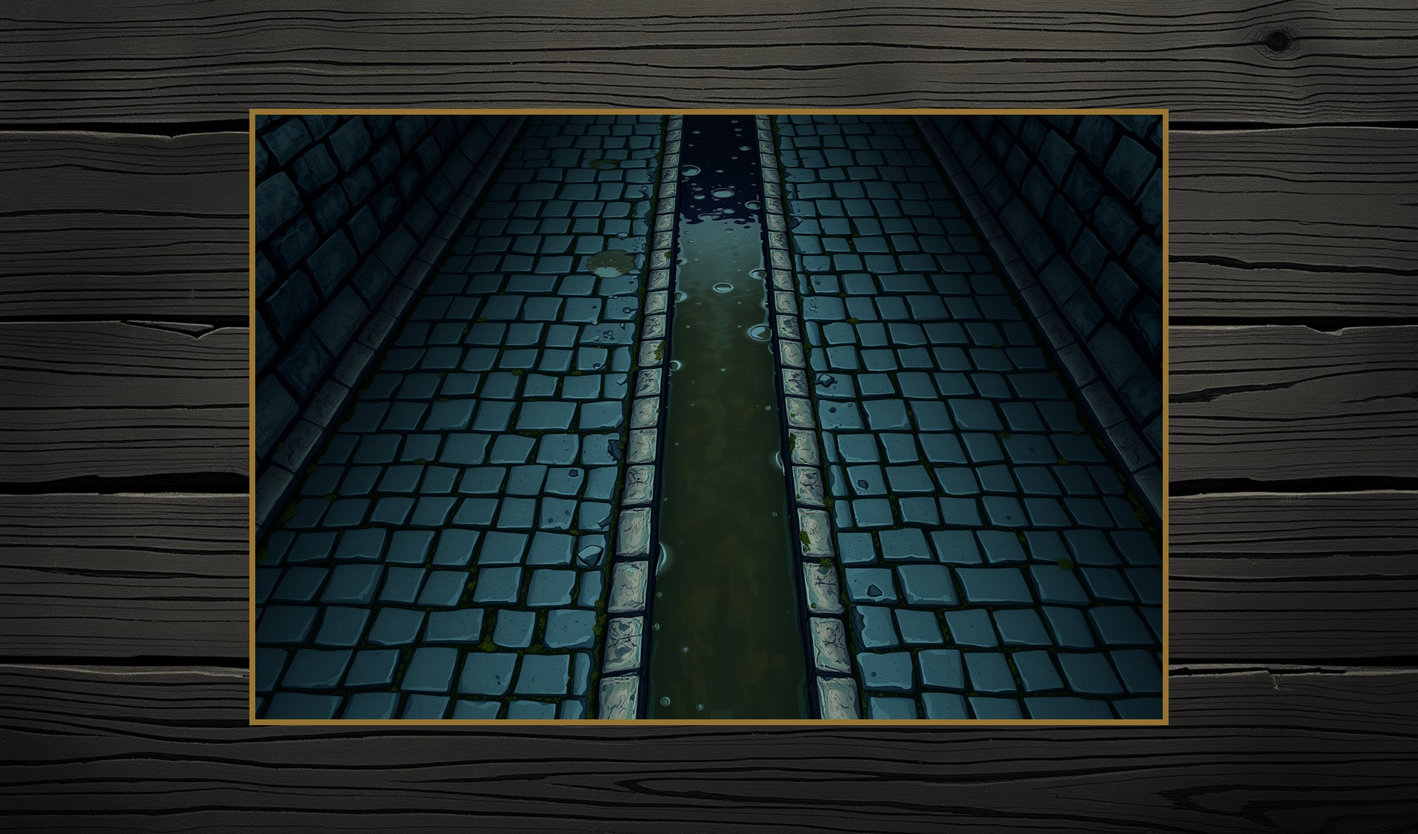
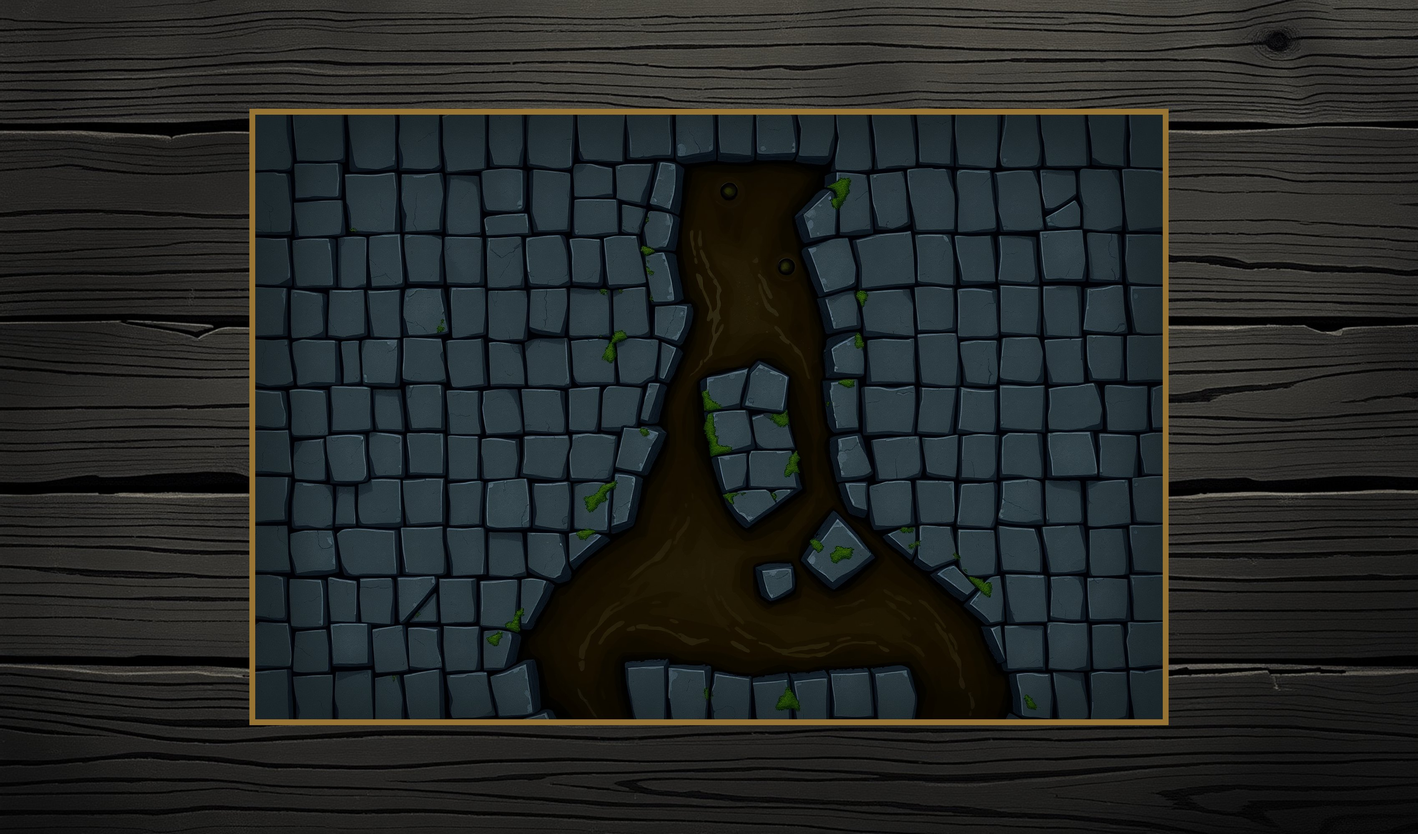
GM portrait, per-model health bar heights, bases on corpses and bigger giant rings, black Baron's Bones, bigger HP shields, GM panel rows top-down on a dark board, dying giantess back to the giant model and moved, top-down curvy sewer map with bridges re-placed

Changed region(s): [[0.1559, 0.124, 0.8418, 0.868]]

diff --git a/build.py b/build.py
@@ -207,8 +207,7 @@ def build_images():
     for i in range(len(ITEMS)):
         items.paste(make_item_card(i), ((i % 4) * 500, (i // 4) * 700))
     items.save(OUT / "items.jpg", quality=90)
-    Image.open(RAW / "screen_art.png").convert("RGB").crop((512, 0, 1024, 768)).resize((256, 384)).crop((0, 64, 256, 320)) \
-        .save(OUT / "portrait_gm.jpg", quality=90)
+    Image.open(RAW / "portrait_gm.png").convert("RGB").resize((256, 256)).save(OUT / "portrait_gm.jpg", quality=90)
     art = Image.open(upscaled("screen_art")).convert("RGB")
     pw = art.width // 3
     for i, (title, body, fs) in enumerate(screen_panels()):
@@ -273,6 +272,11 @@ def tile(url, transform, **kw):
 
 # Everything on the table is positioned by grid square; game.lua measures the table at load and turns
 # "grid" into a world transform (TTS table sizes aren't documented, guessing them made things fall off).
+# per RPG kit model: health bar height above the base (object-UI units) and base ring size, read off screenshots
+UI_HEIGHT = {"rpg_CYCLOP": 690, "rpg_GHOUL": 230, "rpg_KOBOLD": 250, "rpg_RAT": 150, "rpg_WOLF": 170}
+RING_SIZE = {"rpg_CYCLOP": 1.35}
+
+
 def npc(key, x, z, n, scene, hp=None):
     t = NPCS[key]
     hp = hp or t["hp"]
@@ -280,15 +284,17 @@ def npc(key, x, z, n, scene, hp=None):
     ry = (270.0 if x > 0 else 90.0) + (180.0 if t.get("flip") else 0.0)   # flip: model faces backwards
     o = obj(t["fig"], tf(ry=ry), GUID=guid(scene, key, n), Nickname=t["name"], Tags=["scene"], GMNotes=t["notes"],
             grid={"x": x, "z": z, "k": "fig", "s": [t.get("scale", 1)] * 3})
+    o["grid"]["ring"] = [0.85, 0.65, 0.15] if t.get("notable") else [0.12, 0.1, 0.09]   # base: gold notable, else dark
+    o["grid"]["ring_s"] = RING_SIZE.get(t["fig"], 1.0)
     if t.get("dead"):
         o["RPGdead"] = True
     if t.get("tint"):
         o["ColorDiffuse"] = dict(zip("rgb", t["tint"]))
     if attacks or not t.get("dead"):   # corpses and carcasses are props, everyone else gets a healthbar
-        o["grid"]["ring"] = [0.85, 0.65, 0.15] if t.get("notable") else [0.12, 0.1, 0.09]   # base: gold notable, else dark
         o["LuaScript"] = (ROOT / "npc.lua").read_text()
         o["LuaScriptState"] = json.dumps({"name": t["name"], "hp": t.get("start_hp", hp), "max": hp,
-                                          "def": t["defense"], "down": bool(t.get("dead")), "attacks": attacks})
+                                          "def": t["defense"], "down": bool(t.get("dead")), "attacks": attacks,
+                                          "ui": UI_HEIGHT.get(t["fig"], 430)})
     return o
 
 
@@ -318,7 +324,7 @@ def scene_data(s, base, textures):
         spawns.append(o)
     if s["key"] == "den":   # Baron's Bones dice on the gambling table
         spawns += [obj("Die_6_Rounded", tf(ry=30.0 * i), GUID=guid("den", "die", i), Tags=["scene"], Nickname="Baron's Bones",
-                       ColorDiffuse={"r": 0.93, "g": 0.87, "b": 0.72},     # old bone, for the Baron's Bones
+                       ColorDiffuse={"r": 0.06, "g": 0.06, "b": 0.06},     # black, white pips: readable from across the table
                        grid={"x": -0.45 + 0.45 * i, "z": 0, "k": "fig", "s": [1.3, 1.3, 1.3], "lift": 4}) for i in range(3)]
     _, rgb, bright = SKIES[s["key"]]
     return dict(title=s["title"], spawns=spawns, heroes=[[x, z] for x, z in s["heroes"]],
@@ -366,18 +372,17 @@ TRAY = (7.2, -7.5)                  # dice tray, from X0; it also carries the GM
 # GM control panel, like the floating one: bottom left of the red mat as the GM sees it (GM looks west, so "down" is
 # +x and "left" is -z). Rows run down the mat; each entry: label, what it does, its row, and its slot in a 3-wide row.
 PANEL_Z, PANEL_X0, ROW = -3.0, 4.2, 0.52
-GM_BUTTONS = ([dict(label="The Giants of Holst", row=0, kind="title")] +
+GM_BUTTONS = ([dict(label="Game Master", row=0, kind="title")] +
               [dict(label=s["title"], scene=i + 1, row=i + 1) for i, s in enumerate(SCENES)] +
               [dict(label=t, fn=f, row=len(SCENES) + 1, slot=k) for k, (f, t) in
                enumerate((("musicScene", "Scene music"), ("musicBattle", "Battle"), ("musicStop", "Stop")))] +
               [dict(label="Reveal all enemies", fn="revealAll", row=len(SCENES) + 2),
                dict(label="REST (cards + full HP)", fn="rest", row=len(SCENES) + 3)])
 for b in GM_BUTTONS:
-    b["x"] = round(PANEL_X0 + ROW * b["row"] - TRAY[0], 2)
+    b["x"] = round(TRAY[0] - (PANEL_X0 + ROW * b["row"]), 2)   # mirrored: rows came out bottom-to-top in TTS
     b["z"] = round(PANEL_Z + (b["slot"] - 1) * 1.1 - TRAY[1] if "slot" in b else PANEL_Z - TRAY[1], 2)
     b["w"] = 1.0 if "slot" in b else 3.2
-GM_PANEL = dict(x=round(PANEL_X0 + ROW * (len(SCENES) + 3) / 2 - TRAY[0], 2), z=round(PANEL_Z - TRAY[1], 2),
-                w=3.6, h=round(ROW * (len(SCENES) + 4) + 0.2, 2))
+
 
 
 def gm_objects(base):
@@ -394,6 +399,8 @@ def gm_objects(base):
                  grid={"x": X0 + 1.0, "z": 0, "k": "model", "lift": 0}),
            model("dice_tray", GUID=guid("gm", "tray"), Nickname="Dice tray", Locked=True, convex=False,
                  Tags=["gm", "gmconsole"], grid={"x": X0 + TRAY[0], "z": TRAY[1], "k": "model", "lift": 0}),
+           model("gm_board", GUID=guid("gm", "board"), Nickname="GM controls", Locked=True, **gm,
+                 grid={"x": X0 + PANEL_X0 + ROW * (len(SCENES) + 3) / 2, "z": PANEL_Z, "k": "model", "lift": 0}),
            obj("Custom_PDF", tf(ry=90.0), GUID=guid("gm", "book"), Nickname="GM guide", **gm,
                CustomPDF={"PDFUrl": f"{base}art/out/gm_guide.pdf", "PDFPassword": "", "PDFPage": 0, "PDFPageOffset": 0},
                grid={"x": X0 + 2.6, "z": -6.9, "k": "tile", "s": [1.8, 1, 1.8]})]
@@ -505,7 +512,7 @@ def main(base):
     notebook = [dict(title="Rules", body=RULES, color="Grey")] + \
                [dict(title=s["title"], body=s["notes"], color="Black") for s in SCENES]
     data = dict(colors=[h["color"] for h in HEROES], heroes=heroes, kits=kits, notebook=notebook, layout=LAYOUT,
-                gm=gm_objects(base), gm_buttons=GM_BUTTONS, gm_panel=GM_PANEL,
+                gm=gm_objects(base), gm_buttons=GM_BUTTONS,
                 ring=mesh(base, "base_ring", Convex=False),
                 scenes=[scene_data(s, base, textures) for s in SCENES],
                 battle=dict(url=f"{base}music/{BATTLE_MUSIC}", title="Battle!"))

diff --git a/content.py b/content.py
@@ -11,9 +11,9 @@ GROUND_STYLE = ("seen from directly above, flat top-down game ground texture, ha
 GROUNDS = {
     "outskirts": "seamless tileable texture of worn grey medieval cobblestones filling the whole image, mud patches, "
                  "puddles, scattered straw and splinters",
-    "sewer": "wet dark grey flagstone floor of a huge underground sewer, a single straight channel of dark murky brown-green "
-             "water running from the top edge to the bottom edge through the middle, worn stone kerbs along the channel, "
-             "puddles and moss in the cracks",
+    "sewer": "a flat battle map tile: wet dark grey flagstones fill the whole image edge to edge, and a channel of dark murky "
+             "brown-green water winds from the top edge down to the bottom edge through the middle, curving and splitting "
+             "around a few islands of stone, bordered by flat stone kerbs, puddles and moss in the cracks",
     "den": "seamless tileable texture of large worn dark grey flagstones evenly filling the whole image, dust and cracks",
     "passage": "dark dungeon floor of cracked flagstones, puddles, patches of moss",
     "cart": "a straight horizontal muddy dirt road crossing the middle of the image from left edge to right edge, "
@@ -177,7 +177,7 @@ NPCS = {
     ], notes="Leader of the ambush. Wicker shield: ranged -5."),
     "dead_thug": dict(name="Trampled guildsman", fig="rpg_THIEF", hp=1, defense=1, attacks=[],
                       notes="Thieves' guild. Search: 3 gold, a guild token, cart keys.", dead=True),
-    "dying_giant": dict(name="Hrothga, dying giantess", fig="rpg_RANGER", scale=1.9, tint=(0.85, 0.72, 0.6), notable=True,
+    "dying_giant": dict(name="Hrothga, dying giantess", fig="rpg_CYCLOP", scale=0.85, notable=True,
                         hp=6, defense=8, attacks=[
         ("Feeble swipe", 3, "1d6", "only if attacked"),
     ], notes="Speaks only Giantish (Tongues / Speak with the Dying / Street Dravic badly). See scene notes."),
@@ -309,11 +309,11 @@ corner with thralls on chains, wicker shields raised. THIS FIGHT IS MEANT TO BE 
                + wall_line("wall", 10.4, -6, 10.4, 4.8, spacing=1.8)
                + [("tent", -8, 3.6, 30), ("tent", -8.3, -3.4, 150), ("tent", -5.8, 4.8, 10),
                   ("bed", -6.2, 2.4, 90), ("bed", -7, -1.2, 0), ("bed", -5.4, -4.6, 60), ("bed", -9, 1.3, 20),
-                  ("torch", -6, 0.6), ("torch", -3.8, -5.2), ("torch", 8.6, -3.4), ("torch", 4.4, 4.6),
-                  ("bridge", 0, 0.6), ("bridge", 0.1, -4.4, 5),
-                  ("crates", 8.6, 3.8), ("barrel", 7.6, 4.6), ("barrel", 7.9, 4.1), ("sack", 3.4, 0.2, 30), ("sack", 3.8, -0.4),
+                  ("torch", -6, 0.6), ("torch", -6, -5.6), ("torch", 8.6, -3.4), ("torch", 4.4, 4.6),
+                  ("bridge", 0.6, 4.2), ("bridge", -1.4, -0.2, 5), ("bridge", 2.6, -1.0, -5),
+                  ("crates", 8.6, 3.8), ("barrel", 7.6, 4.6), ("barrel", 7.9, 4.1), ("sack", 4.6, 0.6, 30), ("sack", 5.0, -0.2),
                   ("crate", 5.6, 1.2, 15), ("keg", -9.2, -0.4, 90), ("rubble", 3.2, 5.2, 0, 0.7)],
-         npcs=[("refugee", -6.3, 3.2), ("refugee", -6.6, -1.6), ("refugee", -3.6, -3), ("refugee", 4.3, -4.5),
+         npcs=[("refugee", -6.3, 3.2), ("refugee", -6.6, -1.6), ("refugee", -5, -3.2), ("refugee", 7.5, -4.6),
                ("noble", 4, -1.5), ("hunter", 8, -0.5), ("hunter", 7.4, -2.6), ("carcass", 5.6, -2.9), ("carcass", 6.5, -1.2)],
          notes="""Read aloud: "You drop into stink and darkness. Then - firelight. Hundreds of people live down here
 in rags and smoke. Holst didn't empty. It went underground."
@@ -434,7 +434,7 @@ After: tracks and blood lead to a cave in the hillside."""),
                + [("rubble", -1.6, 5.6, 0, 0.8), ("rubble", 1.8, 5.6, 180, 0.8), ("rock_b", 2.8, -2.4, 30, 1.4),
                   ("rock_d", 2.8, -0.4, 80, 1.1), ("campfire_cold", -1.3, 0.8), ("rubble", 4, 2.5, 0, 0.6), ("torch", -3.5, -1),
                   ("wicker_shield", 4.4, -3.2, 130, 0.9), ("giant_club", 7.6, -3.0, 75, 0.55)],
-         npcs=[("dead_human", -3, 2), ("dead_human", -2, -2), ("dead_human", 0.5, -0.5), ("dying_giant", 6, -4.8),
+         npcs=[("dead_human", -3, 2), ("dead_human", -2, -2), ("dead_human", 0.5, -0.5), ("dying_giant", 1.4, -2.6),
                ("princess", 0, 6)],
          notes="""Read aloud: "The cave stinks of blood and smoke. The guild made their last stand here -
 three bodies around a burnt-out fire. In the corner, leaning against the rock, a giantess. Still breathing."

diff --git a/test_lua.py b/test_lua.py
@@ -243,15 +243,15 @@ assert len(desk) == len(c.DATA.gm) - 2 and all(o.invisible for o in desk), [o.da
 assert all(o.data.Transform.posX > W / 2 for o in desk), [(o.data.Nickname, o.data.Transform.posX) for o in desk]
 assert len(screen) == 1 and not screen[0].invisible and screen[0].data.Transform.posX > W / 2   # on the GM table
 board = list(g.getObjectsWithTag("gmconsole").values())[0]
-assert len(board.buttons) == len(c.DATA.gm_buttons) + 1   # + the panel's dark backing
-fn = board.buttons[3].click_function                 # backing, title, then scene 1
+assert len(board.buttons) == len(c.DATA.gm_buttons)
+fn = board.buttons[2].click_function                 # title, then scene 1
 g.UIattr["sceneTitle.text"] = ""
 c[fn](board, "Red")                                  # players can't press GM buttons
 assert g.UIattr["sceneTitle.text"] == ""
 c[fn](board, "Black")
 assert g.UIattr["sceneTitle.text"] == scenes[0]["title"]
 lit = [i for i in range(1, len(board.buttons) + 1) if to_py(board.buttons[i].color) == [0.85, 0.65, 0.2]]
-assert lit == [3], lit                               # only the current scene's button is lit
+assert lit == [2], lit                               # only the current scene's button is lit
 # coloured bases: every hero figure and every living NPC got a ring attached
 assert all(o.attached == 1 for col in ("Red", "Blue", "Green", "Purple") for o in g.getObjectsWithTag("fig_" + col).values())
 # HP shields: -, +, right-click = 5, clamped to 0..max, REST refills

diff --git a/forge.py b/forge.py
@@ -1006,6 +1006,16 @@ def hp_shield():
     return a.objs
 
 
+def gm_board():
+    """Dark backing board for the GM control buttons (they float just above it): 6.0 deep (x) by 3.6 wide (y),
+    with a thin gold edge."""
+    a = Asset(32)
+    a.box((6.0, 3.6, 0.03), (0, 0, 0.015), "charcoal")
+    for x, y, w, d in ((0, 1.8, 6.04, 0.04), (0, -1.8, 6.04, 0.04), (3.0, 0, 0.04, 3.6), (-3.0, 0, 0.04, 3.6)):
+        a.box((w, d, 0.035), (x, y, 0.0175), "gold")
+    return a.objs
+
+
 ASSETS = {
     "house_a": lambda: house(1, 3.0, 2.2, 2, "timber"),
     "house_b": lambda: house(2, 2.6, 2.0, 2, "mixed", roof="shingle", plaster="plaster_white", front=True),
@@ -1028,7 +1038,7 @@ ASSETS = {
     "kerb": kerb, "house_e": lambda: house(13, 2.2, 2.6, 3, "timber", front=True, roof="shingle", plaster="plaster_rose"),
     "house_f": lambda: house(14, 3.2, 2.2, 1, "stone", roof="thatch", annex=1, flowers=0.6),
     "throne_dais": throne_dais, "candelabra": candelabra, "hoard": hoard, "hoard_b": lambda: hoard(29),
-    "wall_sconce": wall_sconce, "coin": coin, "ration": ration, "gm_table": gm_table, "base_ring": base_ring, "hp_shield": hp_shield, "gm_screen": gm_screen, "dice_tray": dice_tray,
+    "wall_sconce": wall_sconce, "coin": coin, "ration": ration, "gm_table": gm_table, "gm_board": gm_board, "base_ring": base_ring, "hp_shield": hp_shield, "gm_screen": gm_screen, "dice_tray": dice_tray,
 }
 
 if __name__ == "__main__":

diff --git a/gen_art.py b/gen_art.py
@@ -22,6 +22,8 @@ def jobs():
     yield "table_wood", ("a bare dark old oak tabletop of long worn wooden planks seen from directly above, scratched and "
                          f"weathered, filling the whole frame, {STYLE}"), 1536, 1024
     yield "card_back", f"ornate symmetrical celtic knotwork pattern, gold filigree on deep crimson leather, no symbols, {STYLE}", 640, 896
+    yield "portrait_gm", ("portrait of a hooded storyteller game master behind a candlelit table with dice, a map and "
+                          f"a quill, knowing smile, grey beard, warm light, {STYLE}"), 768, 768
     # GM desk art, appended so earlier jobs keep their seeds
     for i, (_, _, prompt, _) in enumerate(ITEMS):
         yield f"item_{i}", f"{prompt}, {STYLE}", 768, 640
